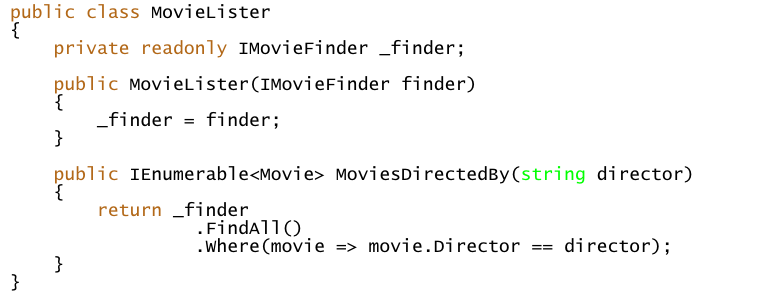
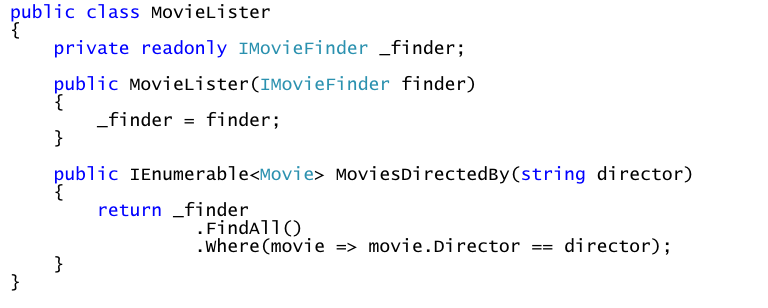
latest sources and corresponding images

diff --git a/dependencies/source.rb b/dependencies/source.rb
@@ -7,10 +7,16 @@ files = [
   {:filename => "ServiceLocator.cs", :syntax => "cs"},
   {:filename => "NoInjection.cs", :syntax => "cs"},
   {:filename => "ConstructorInjection.cs", :syntax => "cs"},
+  {:filename => "PoorManDI.cs", :syntax => "cs"},
+  {:filename => "ManualInjection.cs", :syntax => "cs"},
+  {:filename => "Container.cs", :syntax => "cs"},
+  {:filename => "ContainerAutowire.cs", :syntax => "cs"},
+  {:filename => "Singleton.cs", :syntax => "cs"},
+  {:filename => "Intercept.cs", :syntax => "cs"},
   {:filename => "PropertyInjection.cs", :syntax => "cs"}]
 
 default = {
-  :style => "vim",
+  :style => "ide-msvs2008",
   :font => "\"Lucida Console\"",
   :font_size => 18 }
 
@@ -23,7 +29,6 @@ files.each do |f|
   style = f[:style] || default[:style]
   font = f[:font] || default[:font]
   font_size = f[:font_size] || default[:font_size]
-
 
   height = f[:height] || (File.open(src_file) { |src| src.readlines() }).length*font_size+20
   width = f[:width] || (File.open(src_file) { |src| src.readlines() }).map { |line| line.length}.max*(font_size*2/3)

diff --git a/dependencies/src/Intercept.cs b/dependencies/src/Intercept.cs
@@ -1,0 +1,20 @@
+public class Program
+{
+    public static void Main()
+    {
+        ObjectFactory.Configure(cfg =>
+        {
+            cfg.For<IMovieFinder>()
+               .Use<DatabaseMovieFinder>()
+               .InterceptWith(new LoggingInterceptor());
+
+            cfg.For<IDbConnection>().Singleton().Use<SqlConnection>()
+                .Ctor<string>().Is("connection_string");
+        });
+
+        var lister = ObjectFactory.GetInstance<MovieLister>());
+
+        lister.MoviesDirectedBy("Kubrick").Each(
+            movie => Console.WriteLine(movie.ToString()));
+    }
+}

diff --git a/dependencies/src/Singleton.cs b/dependencies/src/Singleton.cs
@@ -1,0 +1,17 @@
+public class Program
+{
+    public static void Main()
+    {
+        ObjectFactory.Configure(cfg =>
+        {
+            cfg.For<IMovieFinder>().Use<DatabaseMovieFinder>();
+            cfg.For<IDbConnection>().Singleton().Use<SqlConnection>()
+                .Ctor<string>().Is("connection_string");
+        });
+
+        var lister = ObjectFactory.GetInstance<MovieLister>());
+
+        lister.MoviesDirectedBy("Kubrick").Each(
+            movie => Console.WriteLine(movie.ToString()));
+    }
+}

diff --git a/dependencies/src/ContainerAutowire.cs b/dependencies/src/ContainerAutowire.cs
@@ -1,0 +1,17 @@
+public class Program
+{
+    public static void Main()
+    {
+        ObjectFactory.Configure(cfg =>
+        {
+            cfg.For<IMovieFinder>().Use<DatabaseMovieFinder>();
+            cfg.For<IDbConnection>().Use<SqlConnection>()
+                .Ctor<string>().Is("connection_string");
+        });
+
+        var lister = ObjectFactory.GetInstance<MovieLister>());
+
+        lister.MoviesDirectedBy("Kubrick").Each(
+            movie => Console.WriteLine(movie.ToString()));
+    }
+}

diff --git a/dependencies/src/PoorManDI.cs b/dependencies/src/PoorManDI.cs
@@ -1,0 +1,21 @@
+public class MovieLister
+{
+    private readonly IMovieFinder _finder;
+
+    public MovieLister()
+      : this(ServiceLocator.Locate<IMovieFinder>())
+    {
+    }
+
+    public MovieLister(IMovieFinder finder)
+    {
+       _finder = finder;
+    }
+
+    public IEnumerable<Movie> MoviesDirectedBy(string director)
+    {
+        return _finder
+                 .FindAll()
+                 .Where(movie => movie.Director == director);
+    }
+}

diff --git a/dependencies/src/Container.cs b/dependencies/src/Container.cs
@@ -1,0 +1,15 @@
+public class Program
+{
+    public static void Main()
+    {
+        ObjectFactory.Configure(cfg =>
+        {
+            cfg.For<IMovieFinder>().Use<ImbdMovieFinder>();
+        });
+
+        var lister = new MovieLister(ObjectFactory.GetInstance<IMovieFinder>());
+
+        lister.MoviesDirectedBy("Kubrick").Each(
+            movie => Console.WriteLine(movie.ToString()));
+    }
+}

diff --git a/dependencies/src/ManualInjection.cs b/dependencies/src/ManualInjection.cs
@@ -1,0 +1,10 @@
+public class Program
+{
+    public static void Main()
+    {
+        var lister = new MovieLister(new ImdbMovieFinder());
+
+        lister.MoviesDirectedBy("Kubrick").Each(
+            movie => Console.WriteLine(movie.ToString()));
+    }
+}
